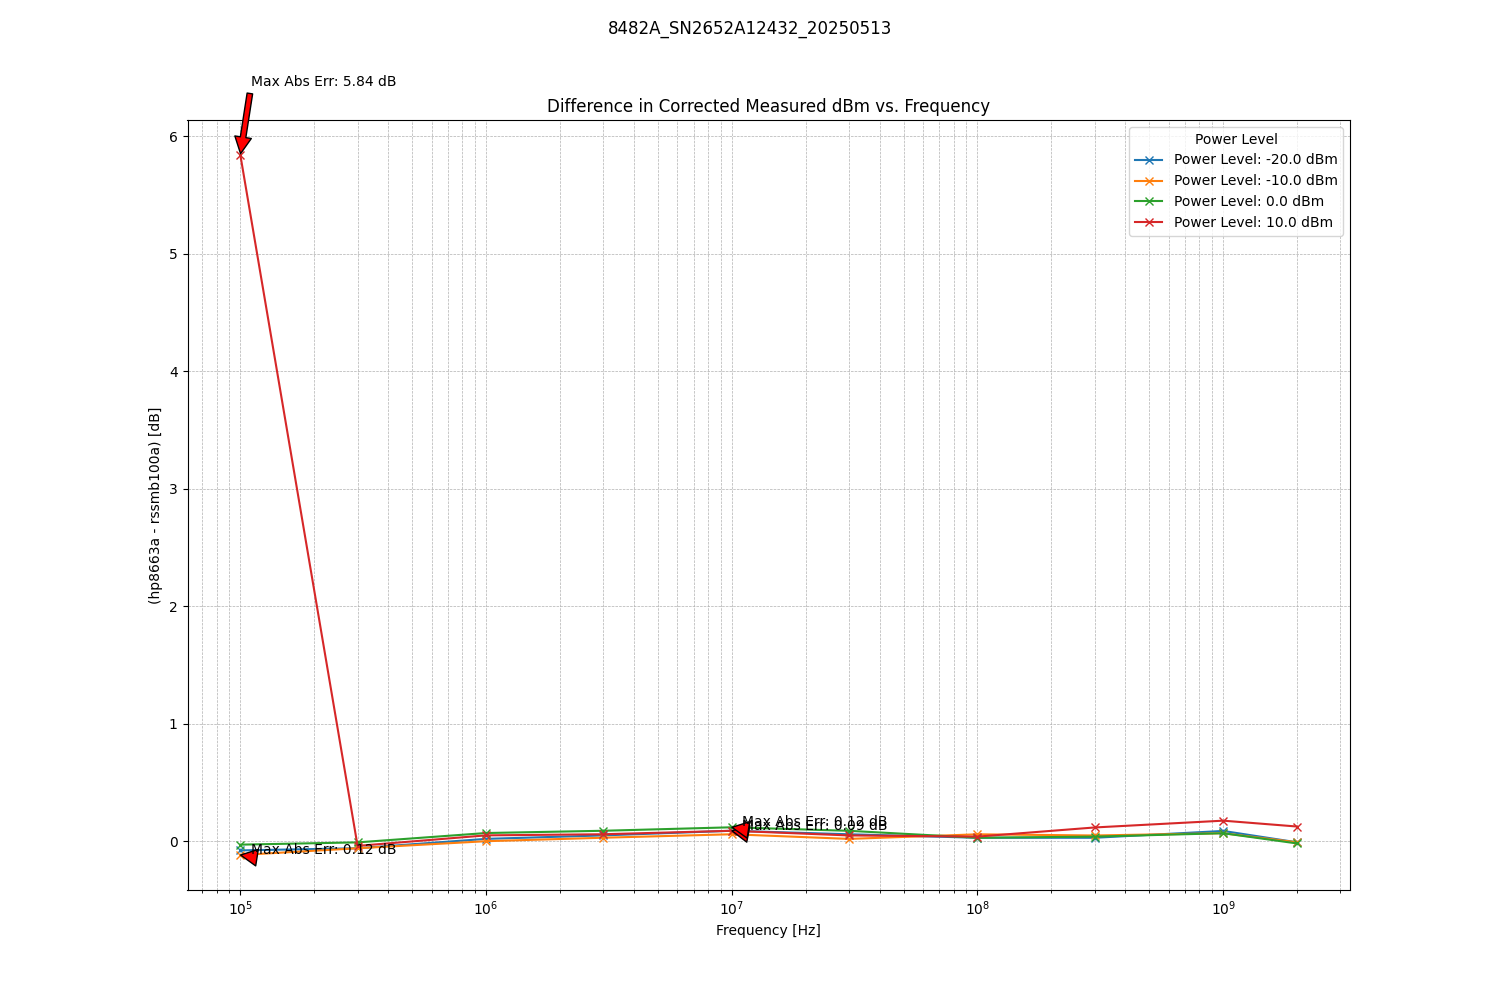
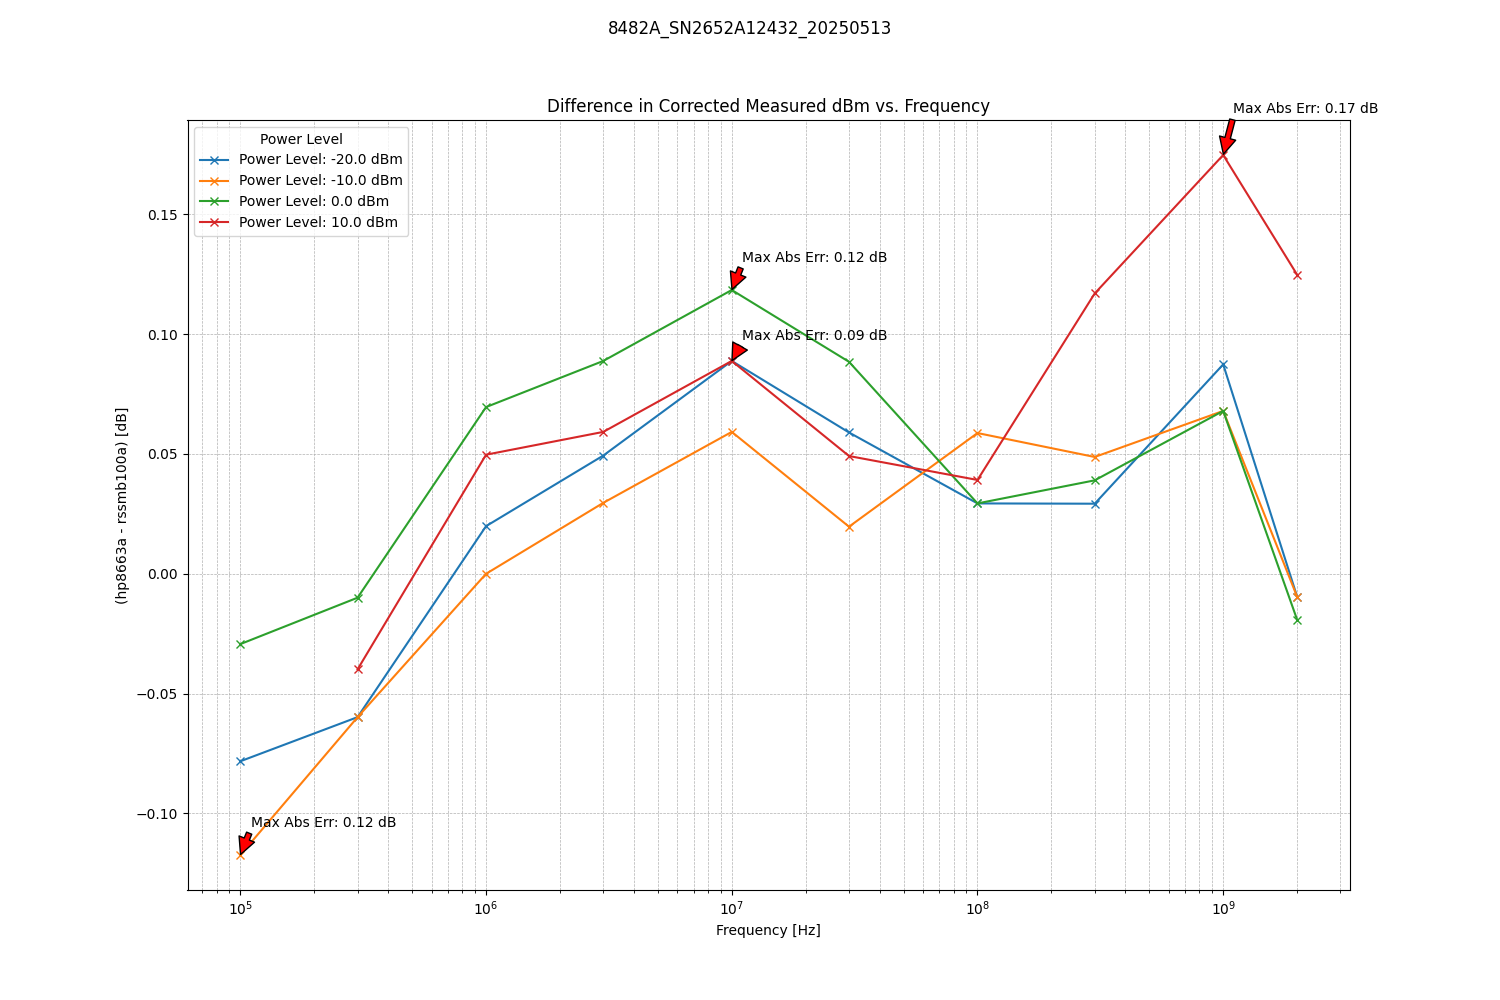
Fix bad data point from R&S for 10 dBm @ 100 kHz.  Refactor plotting.
Hand-edit the csv to remove the 100 kHz @ 10 dBm measurement from the
RS SMB100A -- it cannot do that power at that frequency.  That
explains the discrepancy.

Move plotting out of cal_rf_sensor.py into sensor_plot.py so the plots
can be messed with without re-taking measurements.

Re-gen all the plots.

diff --git a/instruments/cal_rf_sensor.py b/instruments/cal_rf_sensor.py
@@ -5,7 +5,6 @@ import datetime
 import sys
 import time
 
-import matplotlib.pyplot as plt
 import pandas as pd
 import pyvisa
 
@@ -108,35 +107,5 @@ def run(argv, sensor_info, power_levels_dBm):
                        f"SN{sensor_info.serial}_"
                        f"{siggy_name}_{yyyymmdd}")
     df.to_csv(output_basename + ".csv", index=False)
-
-    # Plot measurements.
-    plt.figure(figsize=(10, 6))
-    for level in df['power_level_dBm'].unique():
-        level_df = df[df['power_level_dBm'] == level]
-        plt.plot(level_df['hz'], level_df['corrected_measured_dBm'],
-                 label=f'{level} dBm', marker='x')
-    plt.xscale('log')
-    plt.xlabel('Frequency [Hz]')
-    plt.ylabel('Measured Power (Corrected) [dBm]')
-    plt.title(output_basename)
-    plt.legend()
-    plt.grid(True, which="both", ls="--", linewidth=0.5)
-    plt.savefig(output_basename + "_measured.png")
-    plt.show()
-
-    plt.figure(figsize=(10, 6))
-    for level in df['power_level_dBm'].unique():
-        level_df = df[df['power_level_dBm'] == level]
-        plt.plot(level_df['hz'],
-                 level_df['corrected_measured_dBm'] - level,
-                 label=f'{level} dBm', marker='x')
-    plt.xscale('log')
-    plt.xlabel('Frequency [Hz]')
-    plt.ylabel('Error [dB]')
-    plt.title(output_basename)
-    plt.legend()
-    plt.grid(True, which="both", ls="--", linewidth=0.5)
-    plt.savefig(output_basename + "_error.png")
-    plt.show()
 
     return 0
